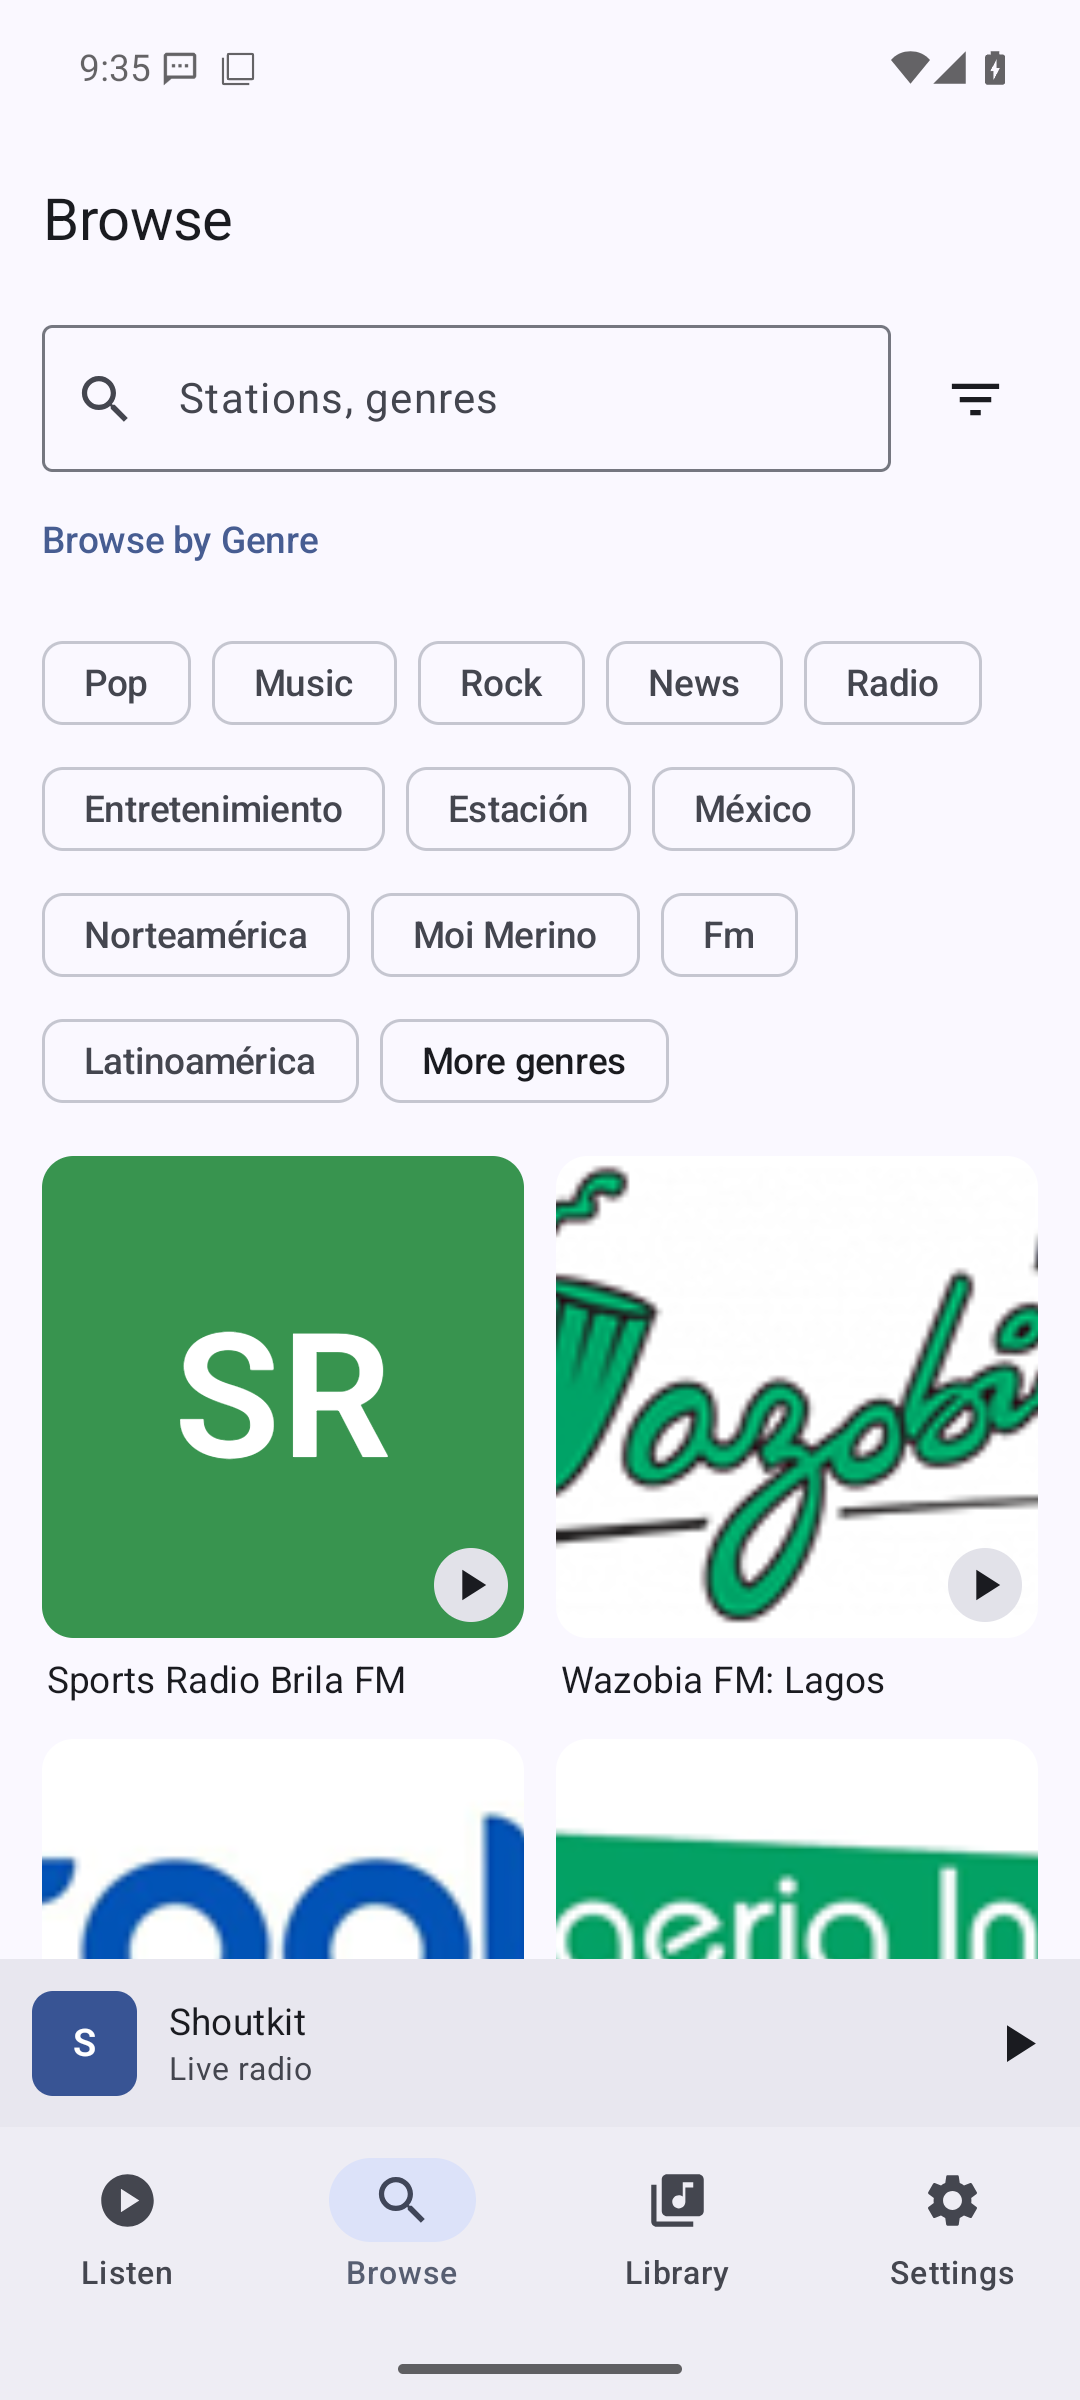
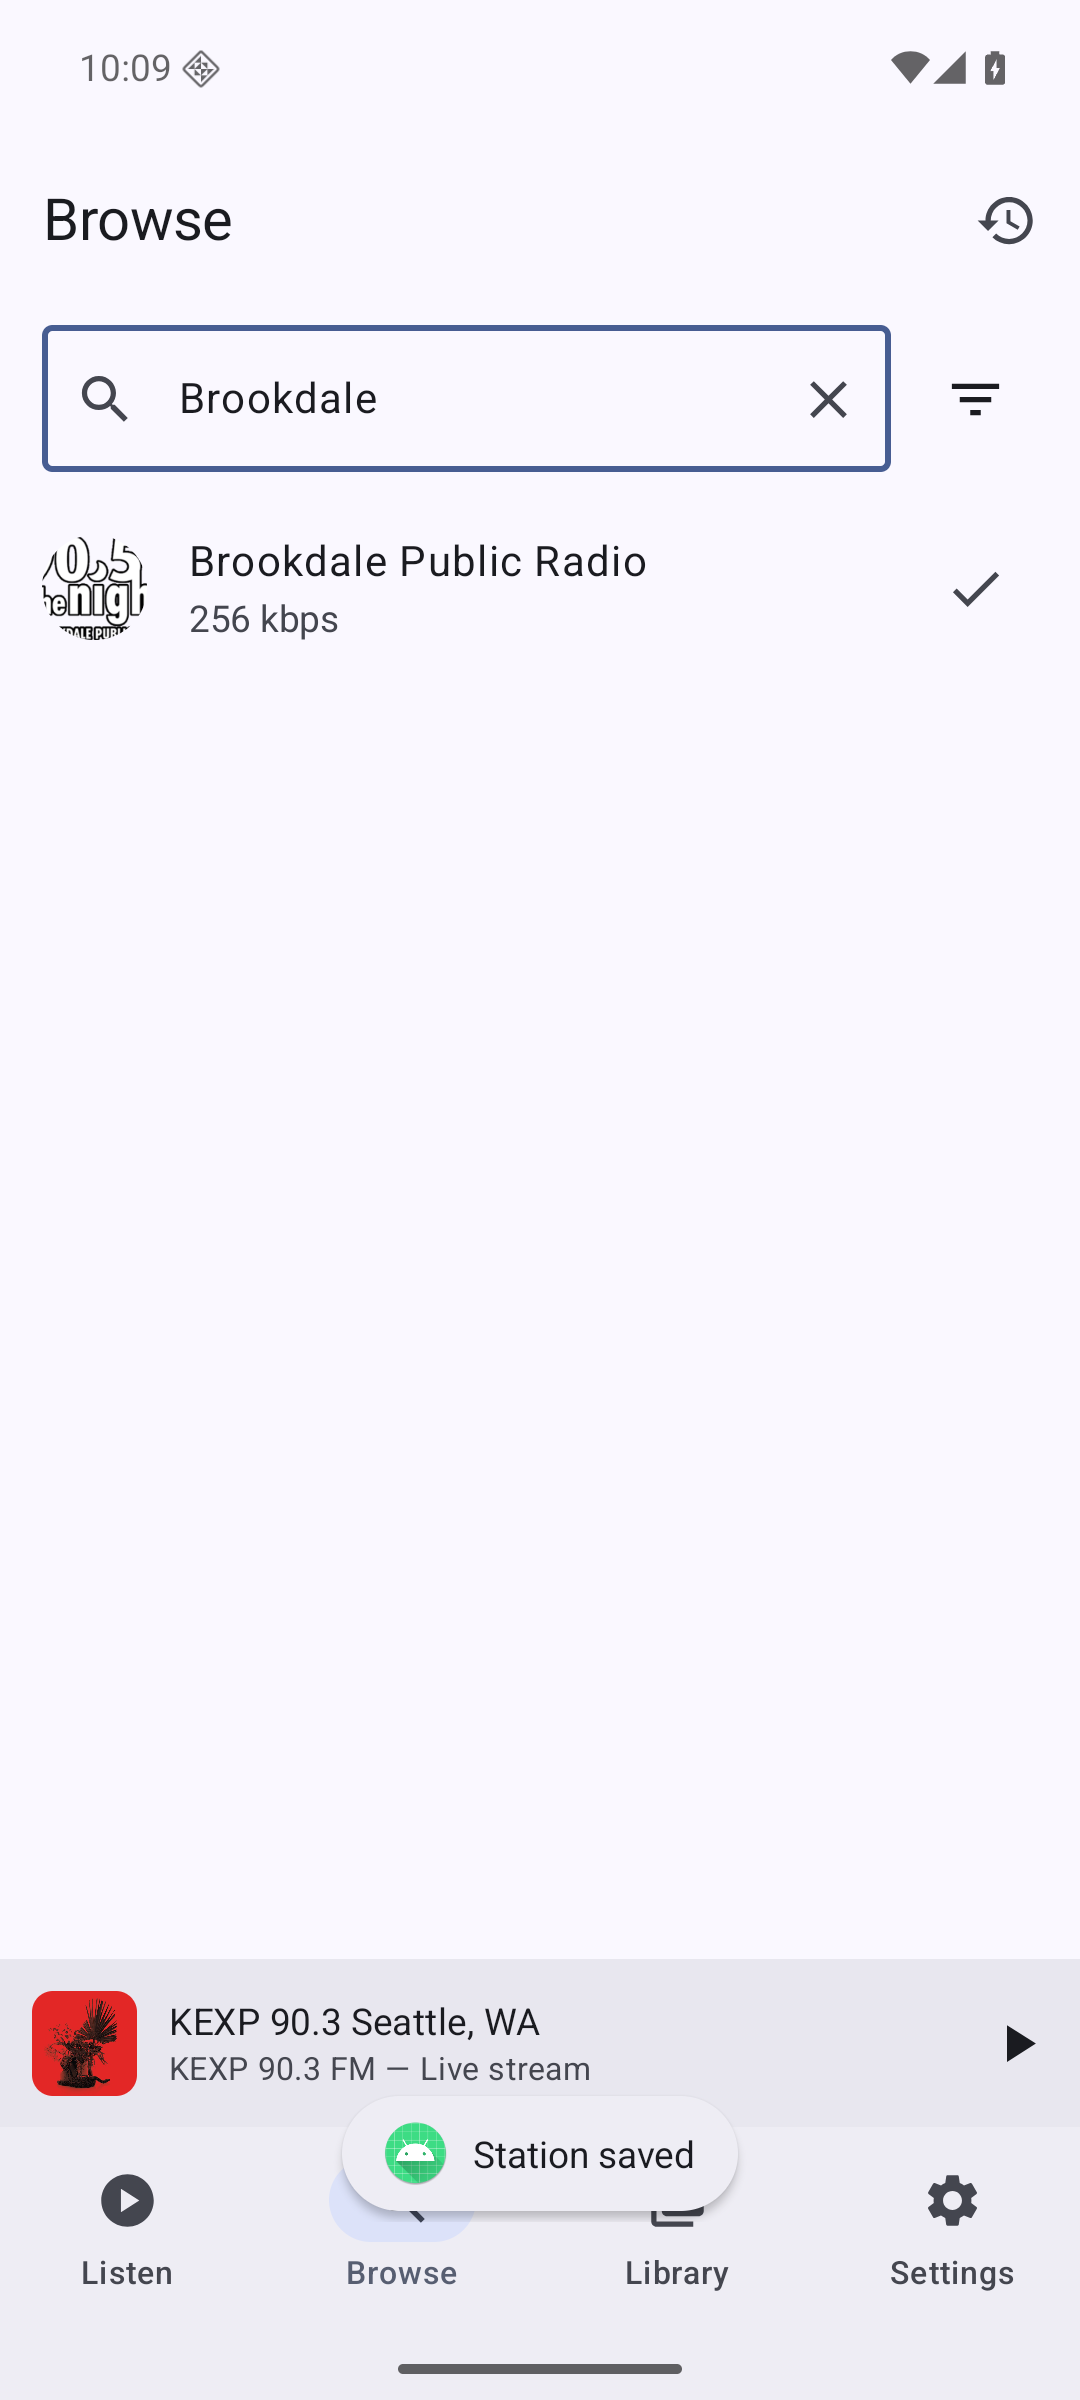
Refresh Shoutkit marketing with warm palette and nightly downloads

diff --git a/docs/index.html b/docs/index.html
@@ -5,7 +5,7 @@
 <meta name="viewport" content="width=device-width,initial-scale=1">
 <title>Shoutkit for Android — Find your frequency</title>
 <meta name="description" content="Find your frequency. A free and open-source Android app by Cascadia Collections.">
-<meta name="theme-color" content="#151a16">
+<meta name="theme-color" content="#f3f0e6">
 <link rel="canonical" href="https://cascadiacollections.github.io/shoutkit-android/">
 <meta property="og:type" content="website">
 <meta property="og:title" content="Shoutkit for Android">
@@ -36,30 +36,33 @@
 <div class="navlinks">
 <a href="#experience">The app</a>
 <a href="https://github.com/cascadiacollections/shoutkit-android">Source ↗</a>
-<a href="#download">Get Shoutkit ↓</a>
+<a class="navdownload" data-nightly-download href="https://github.com/cascadiacollections/shoutkit-android/releases/download/nightly-38157718890-1/shoutkit-android-nightly.apk">Get nightly APK ↓</a>
 </div>
 </nav>
 <main id="main">
 <div class="hero">
 <div>
-<div class="eyebrow">Independent radio. Open source.</div>
+<div class="eyebrow">Independent radio. Modern Android. FOSS.</div>
 <h1>Find your<br>
 <span>frequency.</span>
 </h1>
-<p class="intro muted">Local voices. Faraway sounds. Your next favorite station. Explore internet radio with a free, open-source player made for Android.</p>
+<p class="intro muted">From KEXP to Brookdale Public Radio. Find your next favorite station with a modern, feature-rich Android player, optimized for open-source listening.</p>
 <div class="buttons">
-<a class="button primary" href="https://github.com/cascadiacollections/shoutkit-android/releases">Download for Android <span aria-hidden="true">↗</span>
+<a class="button primary" data-nightly-download href="https://github.com/cascadiacollections/shoutkit-android/releases/download/nightly-38157718890-1/shoutkit-android-nightly.apk">Download nightly APK <span aria-hidden="true">↗</span>
 </a>
 <a class="button" href="#experience">Take a look <span aria-hidden="true">↓</span>
 </a>
 </div>
-<p class="small muted">FOSS build · Android 7.0+ · MIT licensed</p>
+<p class="small muted">Signed FOSS nightly · Android 7.0+ · Development build</p>
+<p class="small muted buildnote">
+<a data-nightly-notes href="https://github.com/cascadiacollections/shoutkit-android/releases">Release notes &amp; checksums</a> · <a href="#download">How to sideload</a>
+</p>
 </div>
 <div class="heroart">
 <div class="phone">
-<img src="assets/listen.webp" alt="Shoutkit listening screen with playback controls and bottom navigation" width="1080" height="2400" fetchpriority="high">
+<img src="assets/listen.webp" alt="Shoutkit playing KEXP 90.3 Seattle with playback controls" width="1080" height="2400" fetchpriority="high">
 </div>
-<span class="air">A WORLD OF RADIO ↗</span>
+<span class="air">GOOD RADIO. OPEN BY DESIGN.</span>
 </div>
 </div>
 <div class="signal">
@@ -67,6 +70,36 @@
 <span>Save your favorites</span>
 <span>Listen on your terms</span>
 </div>
+<section id="stations">
+<div class="sectionhead">
+<div>
+<div class="eyebrow">A couple of good places to start</div>
+<h2>Real stations.<br>People behind the music.</h2>
+</div>
+<p class="muted">Search for these names in Shoutkit, save them to your library, and make room for a little discovery.</p>
+</div>
+<div class="stationgrid">
+<article class="station">
+<div class="dial" aria-hidden="true">90.3</div>
+<div>
+<div class="eyebrow">Seattle, Washington</div>
+<h3>KEXP</h3>
+<p>Listener-powered music radio, with a stream available for third-party players.</p>
+<a href="https://kexp.org/mobile/kexp-livestreams/">About the KEXP stream ↗</a>
+</div>
+</article>
+<article class="station">
+<div class="dial" aria-hidden="true">90.5</div>
+<div>
+<div class="eyebrow">The Jersey Shore</div>
+<h3>Brookdale Public Radio</h3>
+<p>90.5 The Night. Public radio with music, local voices, and a Jersey soundtrack.</p>
+<a href="https://wbjb.org/listen/">Meet 90.5 The Night ↗</a>
+</div>
+</article>
+</div>
+<p class="stationnote">Stations shown as listening examples. Shoutkit is independently developed and is not affiliated with or endorsed by these broadcasters.</p>
+</section>
 <section id="experience">
 <div class="sectionhead">
 <div>
@@ -78,21 +111,21 @@
 <div class="gallery">
 <figure>
 <div class="phone">
-<img src="assets/listen.webp" alt="Shoutkit Listen screen with playback controls" width="1080" height="2400" loading="lazy">
+<img src="assets/listen.webp" alt="Shoutkit Listen screen tuned to KEXP 90.3 Seattle" width="1080" height="2400" loading="lazy">
 </div>
 <figcaption>
 <strong>Make yourself comfortable.</strong>A clear listening screen with playback and favorite controls.</figcaption>
 </figure>
 <figure>
 <div class="phone">
-<img src="assets/search.webp" alt="Shoutkit Browse screen with genre filters and station discovery" width="1080" height="2400" loading="lazy">
+<img src="assets/search.webp" alt="Shoutkit Browse search result for Brookdale Public Radio" width="1080" height="2400" loading="lazy">
 </div>
 <figcaption>
 <strong>Follow your curiosity.</strong>Search the station directory for a familiar name or a new sound.</figcaption>
 </figure>
 <figure>
 <div class="phone">
-<img src="assets/library.webp" alt="Shoutkit Library screen with saved stations" width="1080" height="2400" loading="lazy">
+<img src="assets/library.webp" alt="Shoutkit Library with KEXP and Brookdale Public Radio saved" width="1080" height="2400" loading="lazy">
 </div>
 <figcaption>
 <strong>Keep the good ones.</strong>Bring your saved stations and listening history together.</figcaption>
@@ -104,7 +137,7 @@
 <div class="sectionhead">
 <div>
 <div class="eyebrow">02 / Make yourself at home</div>
-<h2>Radio that fits<br>your day.</h2>
+<h2>Rich features.<br>Ready for everyday radio.</h2>
 </div>
 </div>
 <div class="featuregrid">
@@ -116,20 +149,30 @@
 <article>
 <span class="number">02</span>
 <h3>A softer landing.</h3>
-<p class="muted">Set a sleep timer for 15, 30, 60, or 90 minutes. Adjust the sound with built-in equalizer presets.</p>
+<p class="muted">Set a sleep timer. Shape the sound with equalizer presets, and use spatial audio on supported headphones.</p>
 </article>
 <article>
 <span class="number">03</span>
 <h3>Your shortcuts.</h3>
-<p class="muted">Reach a station from your home screen, widget, or Quick Settings. Use playback links in your own routines.</p>
+<p class="muted">Reach a station from your home screen, widget, or Quick Settings. Use Android Auto for media controls and playback links in your own routines.</p>
+</article>
+</div>
+<div class="detailgrid">
+<article>
+<h3>A library worth building.</h3>
+<p class="muted">Save and reorder stations, import or export playlists, back up favorites, and return to recent listening and track history.</p>
+</article>
+<article>
+<h3>A modern foundation.</h3>
+<p class="muted">Jetpack Compose and Material 3 meet Media3 playback. Baseline profiles, release shrinking, and a streaming-focused network client keep the FOSS build tuned for Android.</p>
 </article>
 </div>
 </section>
 <section class="open">
 <div>
 <div class="eyebrow">03 / Open by design</div>
-<h2>Your radio.<br>Your choice.</h2>
-<p class="muted">This is the FOSS edition of Shoutkit: no proprietary Google services, Firebase Analytics, or Crashlytics. Preferences and saved stations stay on your device.</p>
+<h2>Modern Android.<br>Security-conscious. FOSS.</h2>
+<p class="muted">This is the FOSS edition of Shoutkit: no proprietary Google services, Firebase Analytics, or Crashlytics. Preferences and saved stations stay on your device. HTTPS directory requests and modern TLS for HTTPS streams, and system certificate trust in release builds are part of its network design.</p>
 <a class="button" href="https://github.com/cascadiacollections/shoutkit-android">Explore the source ↗</a>
 </div>
 <div class="code">
@@ -143,22 +186,25 @@
 <section id="download" class="install">
 <div>
 <div class="eyebrow">04 / Get on the air</div>
-<h2>A little setup.<br>A lot to hear.</h2>
-<p class="muted">Get the Android APK from GitHub Releases. Nightly builds are development versions; check the release notes before installing.</p>
-<a class="button primary" href="https://github.com/cascadiacollections/shoutkit-android/releases">View releases ↗</a>
+<h2>Sideload tonight.<br>Find something new.</h2>
+<p class="muted">Download the signed FOSS nightly APK directly. Nightlies are development builds for early adopters; read the release notes and checksums before installing.</p>
+<a class="button primary" data-nightly-download href="https://github.com/cascadiacollections/shoutkit-android/releases/download/nightly-38157718890-1/shoutkit-android-nightly.apk">Download nightly APK ↓</a>
+<p class="small muted buildnote" style="margin-top:16px">
+<a data-nightly-notes href="https://github.com/cascadiacollections/shoutkit-android/releases">Build notes &amp; SHA256 checksums</a>
+</p>
 </div>
 <ol class="steps">
 <li>
 <strong>Choose a build.</strong>
-<span class="muted">Open the latest release and download its installable FOSS or nightly APK.</span>
+<span class="muted">Use the download button to get the signed nightly APK. It resolves the newest installable FOSS nightly when GitHub is available.</span>
 </li>
 <li>
 <strong>Install on Android.</strong>
-<span class="muted">Allow installation from your browser or file manager when Android asks, then open the APK.</span>
+<span class="muted">Open the APK. When Android asks, allow your browser or file manager to install unknown apps, then confirm installation.</span>
 </li>
 <li>
 <strong>Find your first station.</strong>
-<span class="muted">Open Shoutkit, explore the directory, and save something you love. Streaming needs an internet connection.</span>
+<span class="muted">Open Shoutkit, explore the directory, and save something you love. Streaming needs an internet connection. Later nightlies can install as updates when the signing key matches.</span>
 </li>
 </ol>
 </section>
@@ -186,7 +232,7 @@
 </section>
 <div class="closing">
 <h2>Somewhere, something<br>good is playing.</h2>
-<a class="button" href="https://github.com/cascadiacollections/shoutkit-android/releases">Find it with Shoutkit ↗</a>
+<a class="button primary" data-nightly-download href="https://github.com/cascadiacollections/shoutkit-android/releases/download/nightly-38157718890-1/shoutkit-android-nightly.apk">Download nightly APK ↓</a>
 </div>
 </main>
 <footer style="margin-top:70px">
@@ -198,5 +244,7 @@
 </div>
 </footer>
 </div>
+<script src="nightly.js" defer>
+</script>
 </body>
 </html>

diff --git a/docs/style.css b/docs/style.css
@@ -83,30 +83,39 @@ footer{flex-direction:column}
 *,*:before,*:after{transition:none!important}
 }
 
-:root{--accent:#d6f878;--line:#ffffff24;--muted:#b1b7a9}
-body{background:#151a16;color:#f4f5ed}
+/* Warm paper, charcoal ink, and a terracotta download accent. */
+:root{--accent:#b93b26;--line:#25271d29;--muted:#65665a;--paper:#f3f0e6;--ink:#25271d}
+body{background:var(--paper);color:var(--ink)}
+.button.primary{color:#fff;box-shadow:0 5px 0 #8a2a1c14}
+.button.primary:hover{background:#9e3020;border-color:#9e3020}
 .brandmark{display:flex;align-items:center;gap:3px;height:28px}
 .brandmark i{display:block;width:4px;background:var(--accent);border-radius:4px}
 .brandmark i:nth-child(1),.brandmark i:nth-child(5){height:12px}
 .brandmark i:nth-child(2),.brandmark i:nth-child(4){height:22px}
 .brandmark i:nth-child(3){height:30px}
-.hero h1 span{color:var(--accent)}
+.hero h1 span{font-family:Georgia,serif;font-style:italic;font-weight:400;color:var(--ink)}
 .heroart{position:relative;display:grid;place-items:center;min-height:570px}
-.heroart:before{content:'';position:absolute;width:400px;height:400px;border:1px solid #d6f87833;border-radius:50%;box-shadow:0 0 0 45px #d6f87808,0 0 0 90px #d6f87805}
-.heroart .phone{position:relative;width:258px;transform:rotate(5deg);box-shadow:0 35px 80px #0009}
-.air{position:absolute;bottom:35px;left:0;background:var(--accent);color:#151a16;padding:12px 18px;border-radius:12px;font-size:.72rem;font-weight:800;letter-spacing:.1em;transform:rotate(-5deg)}
+.heroart:before{content:'';position:absolute;width:400px;height:400px;border:1px solid #b995543a;border-radius:50%;box-shadow:0 0 0 45px #c9b1810d,0 0 0 90px #c9b18109}
+.heroart .phone{position:relative;width:258px;transform:rotate(5deg);box-shadow:0 35px 65px #33261530}
+.air{position:absolute;bottom:35px;left:0;background:#e6bc49;color:var(--ink);padding:12px 18px;border-radius:8px;font-size:.72rem;font-weight:800;letter-spacing:.1em;transform:rotate(-5deg)}
 .signal{display:flex;justify-content:space-between;gap:20px;padding:22px 0;border-top:1px solid var(--line);font-size:.72rem;letter-spacing:.12em;text-transform:uppercase}
-.featuregrid h3{color:var(--accent)}
-.closing{background:var(--accent);color:#151a16}
-.closing .button{border-color:#151a16}
+.featuregrid h3{color:var(--ink)}
+.closing{background:#e6bc49;color:var(--ink)}
+.closing .button{border-color:var(--accent);white-space:nowrap}
+.closing a:focus-visible{outline-color:var(--ink)}
 .open{display:grid;grid-template-columns:1fr 1fr;gap:70px}
-.open .code{font-family:monospace;background:#202820;padding:35px;border:1px solid var(--line);border-radius:12px;font-size:1rem;color:var(--accent);line-height:2.5}
+.open .code{font-family:monospace;background:#e8e2d3;padding:35px;border:1px solid var(--line);border-radius:12px;font-size:1rem;color:var(--ink);line-height:2.5}
 .open .code span{color:var(--muted)}
-@media(max-width:600px){.heroart{min-height:570px;overflow:hidden}
-.heroart:before{width:290px;height:290px}
-.air{left:10px;bottom:25px}
-.signal{flex-wrap:wrap;gap:10px}
-.open{grid-template-columns:1fr;gap:25px}
-}
-
-.closing a:focus-visible{outline-color:#151a16}
+.navlinks .navdownload{background:var(--accent);color:#fff;padding:10px 18px;border-radius:100px;font-weight:700}
+.stationgrid{display:grid;grid-template-columns:1fr 1fr;gap:28px}
+.station{background:#e9e3d5;border:1px solid var(--line);padding:35px;border-radius:12px;display:flex;align-items:center;gap:30px}
+.station .dial{font-family:Georgia,serif;font-size:2.5rem;line-height:1;min-width:100px;color:var(--accent)}
+.station h3{margin:8px 0;font-size:1.5rem}
+.station p{margin:0 0 12px;font-size:.9rem;color:var(--muted)}
+.station a{font-size:.85rem;text-underline-offset:4px}
+.stationnote{font-size:.75rem;color:var(--muted);margin-top:25px}
+.detailgrid{display:grid;grid-template-columns:1fr 1fr;gap:40px;margin-top:35px}
+.detailgrid article{padding-top:20px;border-top:1px solid var(--line)}
+.buildnote a{color:var(--ink);text-underline-offset:3px}
+@media(max-width:800px){.station{display:block;padding:25px}.station .dial{margin-bottom:25px}}
+@media(max-width:600px){.heroart{min-height:570px;overflow:hidden}.heroart:before{width:290px;height:290px}.air{left:10px;bottom:25px}.signal{flex-wrap:wrap;gap:10px}.open,.stationgrid,.detailgrid{grid-template-columns:1fr;gap:25px}.navlinks{gap:12px}.navlinks .navdownload{padding:9px 12px}.station{display:flex;gap:22px}.station .dial{min-width:75px;font-size:2rem;margin:0}.station h3{font-size:1.3rem}}

diff --git a/docs/nightly.js b/docs/nightly.js
@@ -1,0 +1,22 @@
+// Keep an installable, verified release URL in the HTML as the no-JS/offline fallback.
+// Nightlies are prereleases, so /releases/latest does not find them.
+(async () => {
+  try {
+    const response = await fetch("https://api.github.com/repos/cascadiacollections/shoutkit-android/releases?per_page=10", { headers: { Accept: "application/vnd.github+json" } });
+    if (!response.ok) return;
+    const releases = await response.json();
+    if (!Array.isArray(releases)) return;
+    const release = releases.find(release => !release.draft && Array.isArray(release.assets) && release.assets.some(asset => /^(shoutkit|sir)-android-nightly\.apk$/.test(asset.name)));
+    if (!release) return;
+    const asset = release.assets.find(asset => /^(shoutkit|sir)-android-nightly\.apk$/.test(asset.name));
+    const url = new URL(asset.browser_download_url);
+    if (url.origin !== "https://github.com" || !url.pathname.startsWith("/cascadiacollections/shoutkit-android/releases/download/")) return;
+    document.querySelectorAll("[data-nightly-download]").forEach(link => { link.href = url.href; });
+    const notes = new URL(release.html_url);
+    if (notes.origin === "https://github.com" && notes.pathname.startsWith("/cascadiacollections/shoutkit-android/releases/tag/")) {
+      document.querySelectorAll("[data-nightly-notes]").forEach(link => { link.href = notes.href; });
+    }
+  } catch {
+    // Rate limits and network failures preserve the known-good HTML download link.
+  }
+})();

diff --git a/docs/SCREENSHOTS.md b/docs/SCREENSHOTS.md
@@ -1,7 +1,7 @@
 # Marketing screenshots
 
-Captured October 11, 2026 from the repository's FOSS debug APK on a local Pixel 7 Android 16 emulator at 1080 × 2400. Device frames are CSS, and the screenshots show actual app UI.
+Captured October 11, 2026 from the repository’s FOSS debug APK on a local Pixel 7 Android 16 emulator at 1080 × 2400. Frames are CSS; screenshots show actual app UI.
 
-The library contains a station saved through the app UI. The Browse screen uses the live station directory. Existing sir:// playback links and Android package IDs are preserved for compatibility.
+Listen shows KEXP 90.3 Seattle. Browse shows a live directory search for Brookdale Public Radio. Both were saved through the app UI for the Library screen. Stations are independent listening examples, without affiliation or endorsement.
 
-Site source is in docs/. GitHub Pages serves the root of gh-pages. Copy the marketing HTML, CSS, .nojekyll, assets/, and privacy/ from docs/ to that branch when publishing. Do not copy internal architecture documents.
+GitHub Pages serves gh-pages at its root. Publish docs/index.html, style.css, nightly.js, .nojekyll, assets/, and privacy/; do not copy internal architecture documents.
